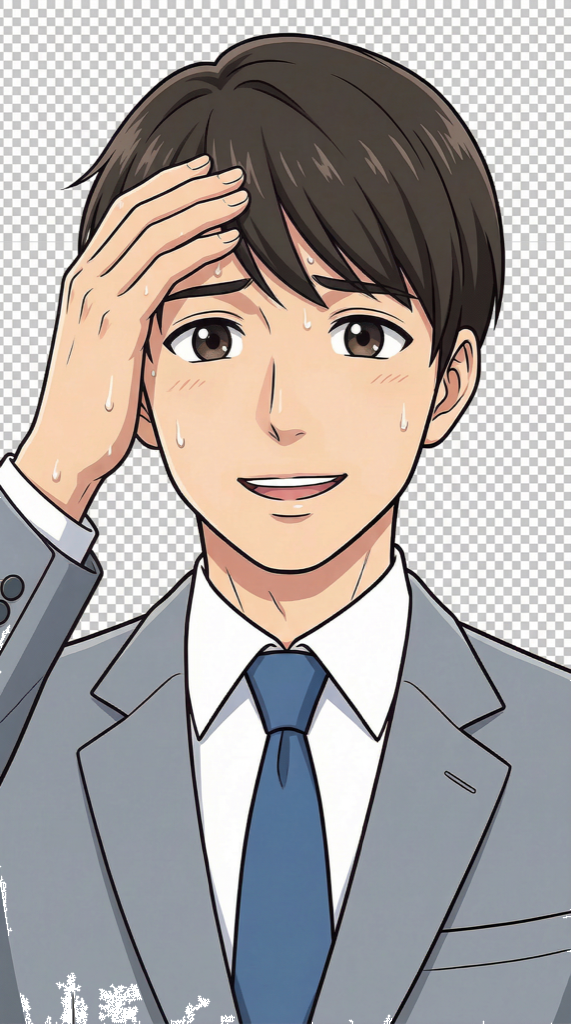
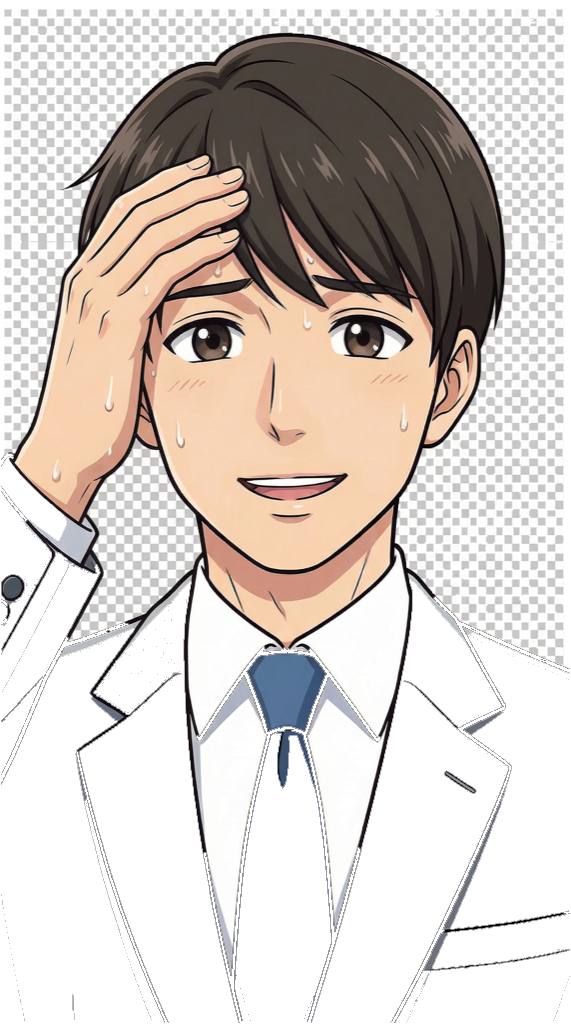
修正: sipsがアルファチャンネルを破壊していた問題を解決
sips -Z をPillow resizeに変更しアルファ保持

フラッドフィルv3: 端全ピクセルから個別にフラッドフィルする方式に改良

diff --git a/index.html b/index.html
@@ -2989,7 +2989,7 @@ var NovelEngine = {
         var src = folder + line.speaker + '_' + line.expr + '.png';
         if (!self._imageCache[src]) {
           var img = new Image();
-          img.src = src + '?v=3';
+          img.src = src + '?v=4';
           self._imageCache[src] = img;
         }
       }
@@ -3076,7 +3076,7 @@ var NovelEngine = {
     var info = this.SPEAKERS[line.speaker];
     if (!info) return;
     var folder = (line.speaker === 'bousai') ? 'characters/shared/' : 'characters/stage' + (GAME.stageNum || 1) + '/';
-    var src = folder + line.speaker + '_' + (line.expr || 'normal') + '.png?v=3';
+    var src = folder + line.speaker + '_' + (line.expr || 'normal') + '.png?v=4';
 
     if (info.pos === 'left') {
       this.charaLeft.src = src;
